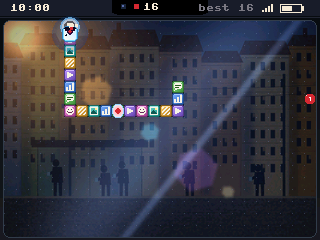
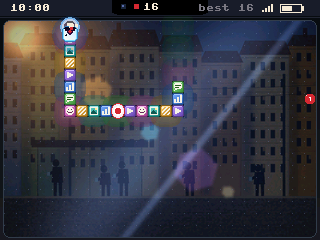
P573: the review's findings: the snake row's screenshots with the lit glass, the bite and the card-like flip (the GIF from frame 630, every third frame, 522 KB; render_scene --all changed only snake.png and snake.gif); bench.md gives the frame budget counted over the row: in play at most n + 18 pict

Changed region(s): [[0.1562, 0.2917, 0.5938, 0.5542], [0.5312, 0.2625, 0.5938, 0.35], [0.1875, 0.0583, 0.25, 0.0875]]

diff --git a/tools/render_scene.py b/tools/render_scene.py
@@ -100,7 +100,7 @@ SUBJECTS = {  # the fire, the rain, app.GAMES in their order, the overlay; the p
     "rescue": Subject(Rescue, Rescue.hint, 60, 214, every=3, presses=((0, 1), (145, 32)), shot=112),
     "flappy": Subject(Flappy, Flappy.hint, 5, 70, every=3, tap=12, shot=60),
     "runner": Subject(Runner, Runner.hint, 10, 75, every=3, hold=40),
-    "snake": Subject(Snake, Snake.hint, 600, 740, every=3, seed=35, presses=tuple((k, 1) for k in SNAKE_PRESSES), shot=683),
+    "snake": Subject(Snake, Snake.hint, 630, 740, every=3, seed=35, presses=tuple((k, 1) for k in SNAKE_PRESSES), shot=683),
     "stack": Subject(Stack, Stack.hint, 5, 72, tap=25),
     "cave": Subject(Cave, Cave.hint, 3, 28, every=1, hold=1, shot=25),
     "tunnel": Subject(Tunnel, Tunnel.hint, 5, 62, tap=25, shot=60),

diff --git a/bench.md b/bench.md
@@ -1597,3 +1597,9 @@ than the control.
 
 - Written before the play (the plan's target, as for BUBBLE above): the system the theme aims at is "the attention
   economy". The PO is not told this; his own words are matched against it afterwards.
+- Frame budget (P573's review, counted on the Mac over the snake row, each pictures.draw over the backdrop): in play
+  at most n + 18 picture blits a frame for a feed n long, 37 at n = 19 (frame 687), and of them at most
+  (n - 1) / 2 + 4 blended (13 at n = 19: 9 tile glows, every other tile's, 3 trail glows and the head's halo). Over:
+  at most 33 blits, 13 blended. The build before the review drew at most 26 blits, 3 blended (the halo, the ping and
+  the ripple, now opaque, as are the bite and the bulge). Not measured on the board: the after run shows what the
+  glows cost against the 24 fps line.
